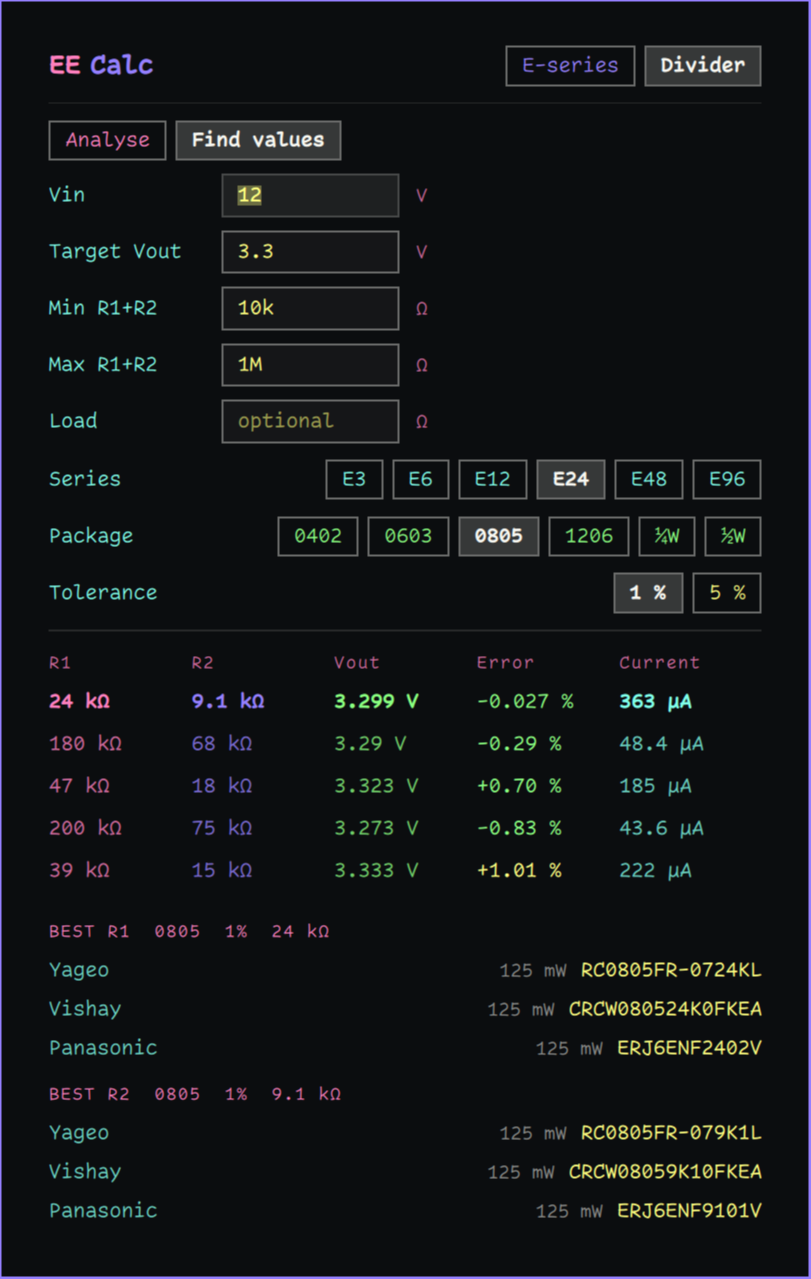
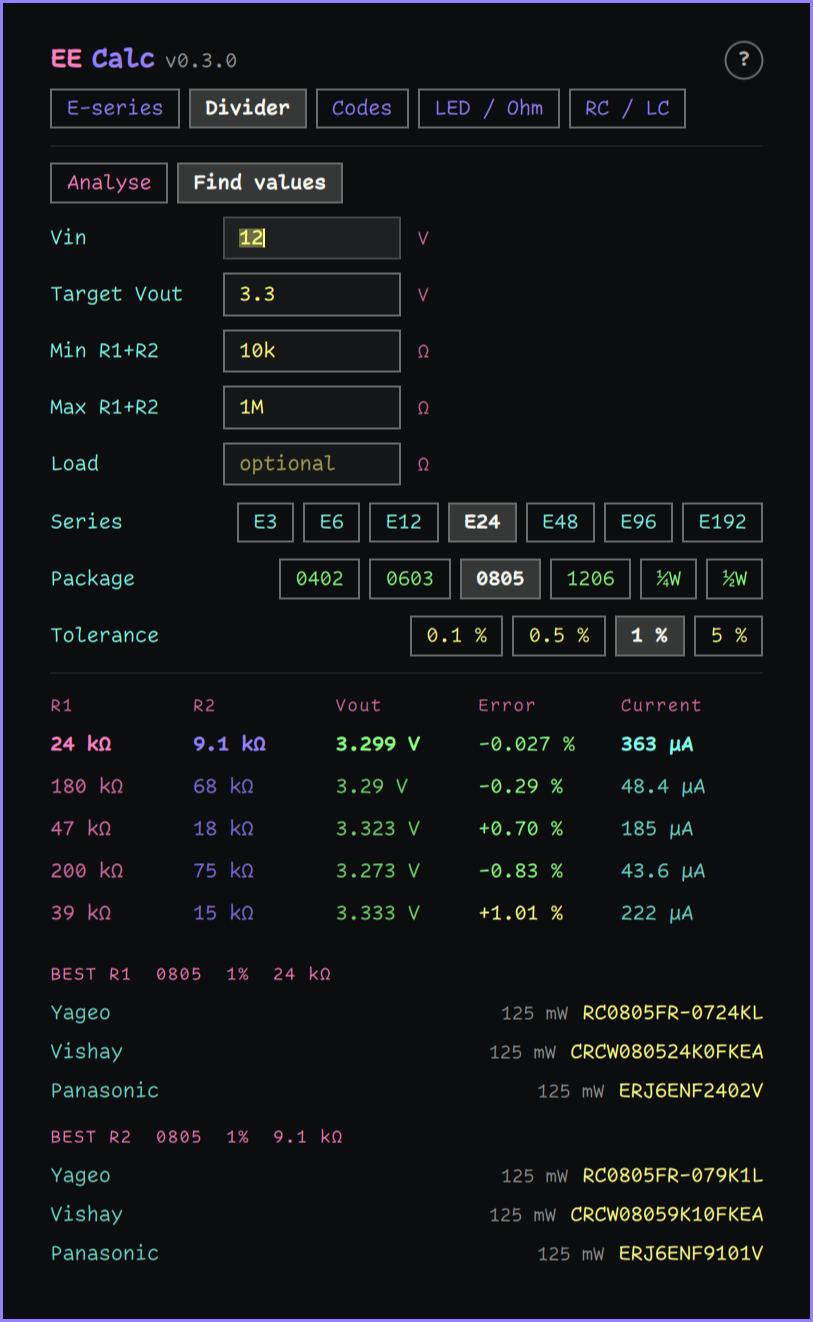
Version 0.3.1: screenshots of every screen
- New screenshots for Codes (Value, SMD code, Bands), LED, Ohm's law,
  RC, LC and 0.1 % thin film; the five 0.2 screenshots retaken with the
  tab row and the ? button. preview.png rebuilt from E-series, Codes
  Bands and the loaded divider.
- README and user manual show the new screenshots in their sections.
- Version 0.3.1 in manifest.json, the engine (bin/ee-calc rebuilt,
  checksum updated), the manual and the architecture diagram.

diff --git a/docs/USER_MANUAL.md b/docs/USER_MANUAL.md
@@ -1,6 +1,6 @@
 # EE Calc user manual
 
-Version 0.3.0. For EE Calc, the electronics bench calculator plugin for the
+Version 0.3.1. For EE Calc, the electronics bench calculator plugin for the
 Omarchy Quattro bar.
 
 ## 1. What EE Calc does
@@ -23,7 +23,7 @@ It has five tabs, in a row under the title:
 - **RC / LC:** RC time constant and cutoff, and LC resonance, each with
   the nearest standard part.
 
-![EE Calc: E-series, divider with a load, and divider design](../preview.png)
+![EE Calc: the E-series tab, colour bands on the Codes tab, and a loaded divider](../preview.png)
 
 ## 2. Install, enable, update and remove
 
@@ -50,7 +50,7 @@ omarchy plugin enable conree.ee-calc
 A calculator icon appears on the right of your bar, or wherever you placed
 it.
 The panel header shows the installed version next to the name, for example
-**EE Calc v0.3.0**.
+**EE Calc v0.3.1**.
 
 **Update:**
 
@@ -223,6 +223,8 @@ The Codes tab has three modes: **Value**, **SMD code** and **Bands**.
 
 ### Value
 
+![Codes, Value](screenshots/codes-value.png)
+
 Type a resistance in **Value**. The panel shows:
 
 | Reading | Meaning |
@@ -247,6 +249,8 @@ The part list for the value is at the bottom.
 
 ### SMD code
 
+![Codes, SMD code, with a code that reads two ways](screenshots/codes-smd.png)
+
 Type the code printed on the part in **Code**: `472`, `4701`, `4R7`,
 `R047`, `68C`, or `0` or `000` for a zero-ohm link. Each reading shows the
 scheme, the value and a note on the parts that use that scheme, then a
@@ -261,6 +265,8 @@ different things to different makers, and the note says so.
 Text that is not a marking code gives **not a resistor marking code**.
 
 ### Bands
+
+![Codes, Bands, with the tolerance band selected](screenshots/codes-bands.png)
 
 A resistor is drawn with its bands. Choose **4 band**, **5 band** or
 **6 band** above it, then click a band. Its colours appear as swatches
@@ -286,6 +292,8 @@ figures cannot fit in four bands, so its third figure is dropped. A
 
 ### LED
 
+![LED, three LEDs in series](screenshots/led.png)
+
 Enter the **Supply** voltage, the LED's forward voltage **LED Vf**, the
 **Current** you want, and how many LEDs are **In series** (1 to start
 with).
@@ -305,6 +313,8 @@ times the number of LEDs.
 
 ### Ohm's law
 
+![Ohm's law](screenshots/ohm.png)
+
 Fill in any two of **Voltage**, **Current**, **Resistance** and **Power**
 and leave the other two blank. The two you gave are shown plain and
 marked *given*; the two worked out are in bold. If three or four boxes
@@ -313,6 +323,8 @@ are filled, the panel asks for exactly two.
 ## 11. RC / LC
 
 ### RC
+
+![RC, with the capacitor worked out](screenshots/rc.png)
 
 Fill in any two of **R**, **C**, **Cutoff** and **Time const.**, leaving
 the rest blank. The cutoff and the time constant say the same thing, so
@@ -331,6 +343,8 @@ nearest standard part and the cutoff it gives. A resistor comes from your
 in. No resistor is suggested outside 1 mΩ to 100 GΩ.
 
 ### LC
+
+![LC, with the capacitor worked out](screenshots/lc.png)
 
 Fill in any two of **L**, **C** and **Resonance**. The readings are L, C,
 the resonant frequency 1 / (2π √(LC)), and the **characteristic
@@ -357,6 +371,8 @@ E192, so an E192-only value lists Vishay alone. Below 47 Ω Panasonic makes
 only 0.5 % parts, at ±50 ppm/K (±100 ppm/K in 0402); the family name in
 the list shows which. There are no through-hole parts at these
 tolerances.
+
+![E-series at 0.1 %, with thin-film part numbers](screenshots/e-series-thin-film.png)
 
 **Copying.** Click a part number to copy it to the clipboard. The power
 figure next to it changes to **copied** for a moment.

diff --git a/README.md b/README.md
@@ -2,7 +2,7 @@
 
 An electronics bench calculator for the Omarchy Quattro bar.
 
-![EE Calc: E-series, divider analysis and divider design panels](preview.png)
+![EE Calc: the E-series tab, colour bands on the Codes tab, and a loaded divider](preview.png)
 
 - **E-series:** type a resistance and see the nearest E3, E6, E12, E24,
   E48, E96 and E192 values, the values either side, and the error of each.
@@ -38,6 +38,8 @@ section for the screen you are on.
 
 ## Updates
 
+- **v0.3.1:** new screenshots of every screen, and a clearer description
+  of the Tolerance setting. No change to the calculator.
 - **v0.3.0:** E192, 0.1 % and 0.5 % parts, marking codes and colour
   bands, LED resistor and Ohm's law, RC and LC. See below.
 - **v0.2.6:** the panel header shows the installed version next to the
@@ -127,9 +129,43 @@ ranked by error, with part numbers for the best pair.
 
 ![Divider design panel](docs/screenshots/divider-find-values.png)
 
-**Through-hole:** ¼ W and ½ W metal-film parts, here a 4.7 kΩ 5 % resistor.
+**Through-hole:** ¼ W and ½ W metal-film parts, here a 4.7 kΩ 1 % resistor.
 
 ![Through-hole part](docs/screenshots/through-hole.png)
+
+**0.1 % thin film:** an E192 value with Yageo RT, Vishay TNPW and Panasonic
+ERA part numbers.
+
+![E-series at 0.1 %](docs/screenshots/e-series-thin-film.png)
+
+**Codes, Value:** the SMD codes and colour bands for a value.
+
+![Codes, Value](docs/screenshots/codes-value.png)
+
+**Codes, SMD code:** `10R` reads two ways, and each reading gets its own
+part list.
+
+![Codes, SMD code](docs/screenshots/codes-smd.png)
+
+**Codes, Bands:** click a band, then pick its colour. Each band offers only
+the colours allowed in its place.
+
+![Codes, Bands](docs/screenshots/codes-bands.png)
+
+**LED:** three LEDs in series from 12 V at 20 mA, with the next standard
+resistor up and down.
+
+![LED series resistor](docs/screenshots/led.png)
+
+**Ohm's law:** the two values worked out are in bold.
+
+![Ohm's law](docs/screenshots/ohm.png)
+
+**RC and LC:** the worked-out capacitor, with the nearest E12 part.
+
+![RC](docs/screenshots/rc.png)
+
+![LC](docs/screenshots/lc.png)
 
 Shown with the Dracula Pro Van Helsing theme and the Comic Code Ligatures
 font. The panel takes its colours from whichever Omarchy theme is active.
